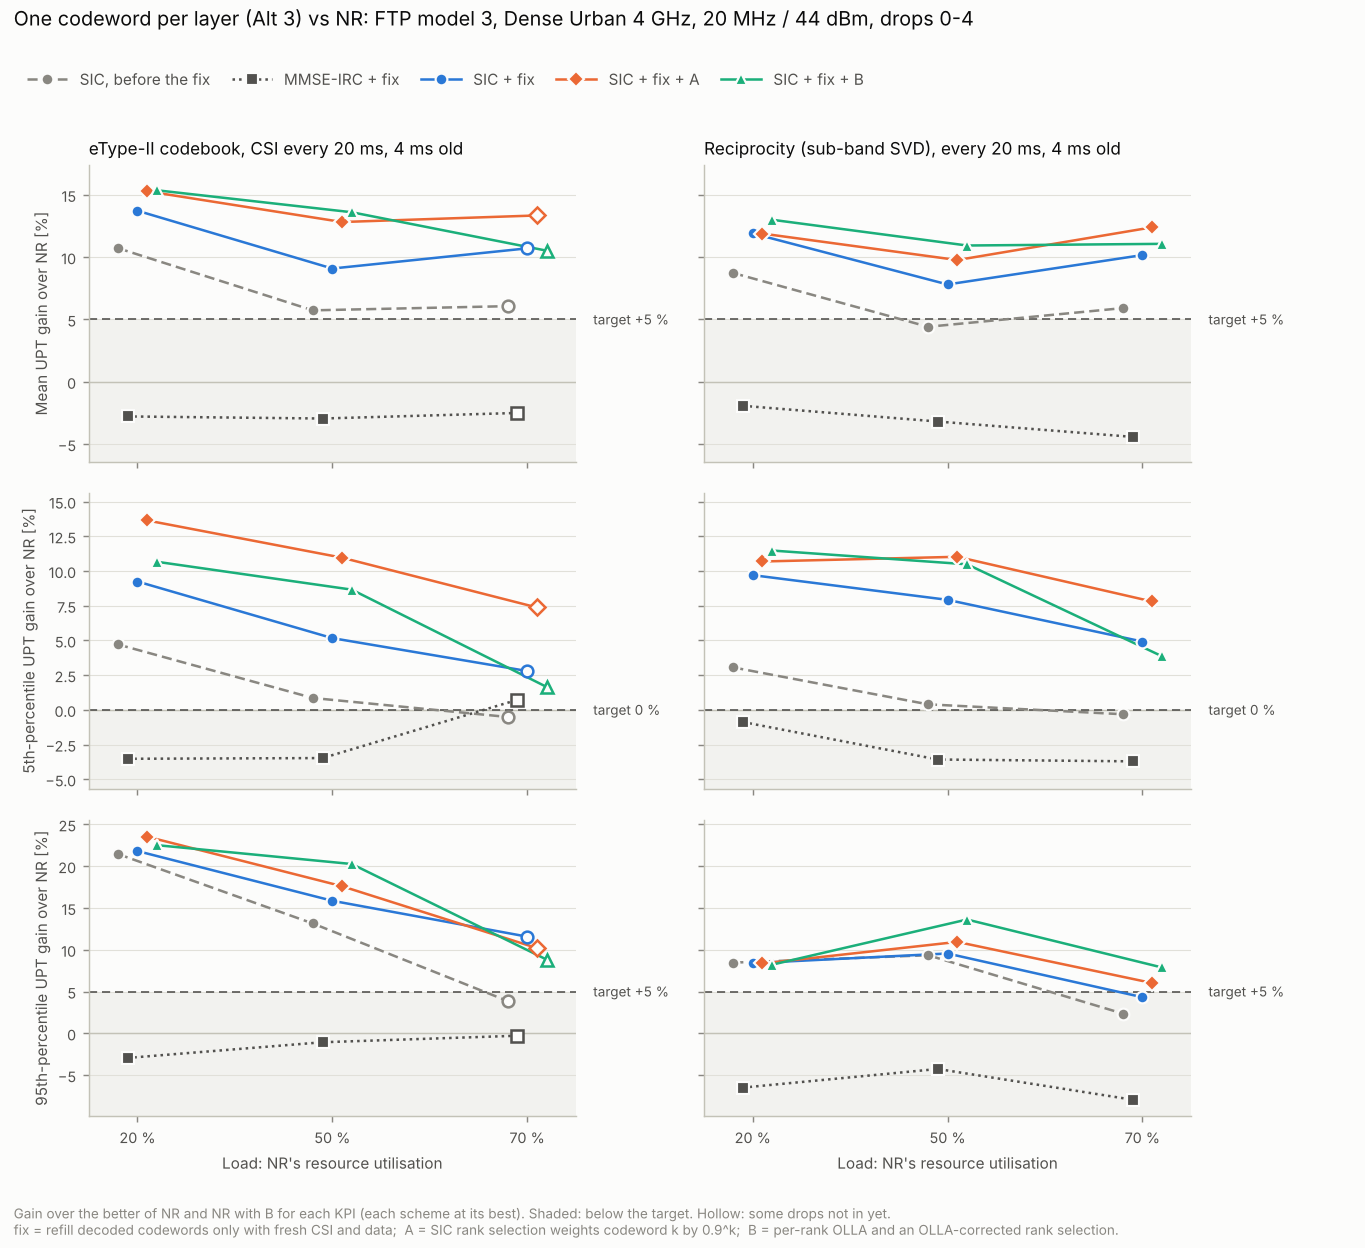
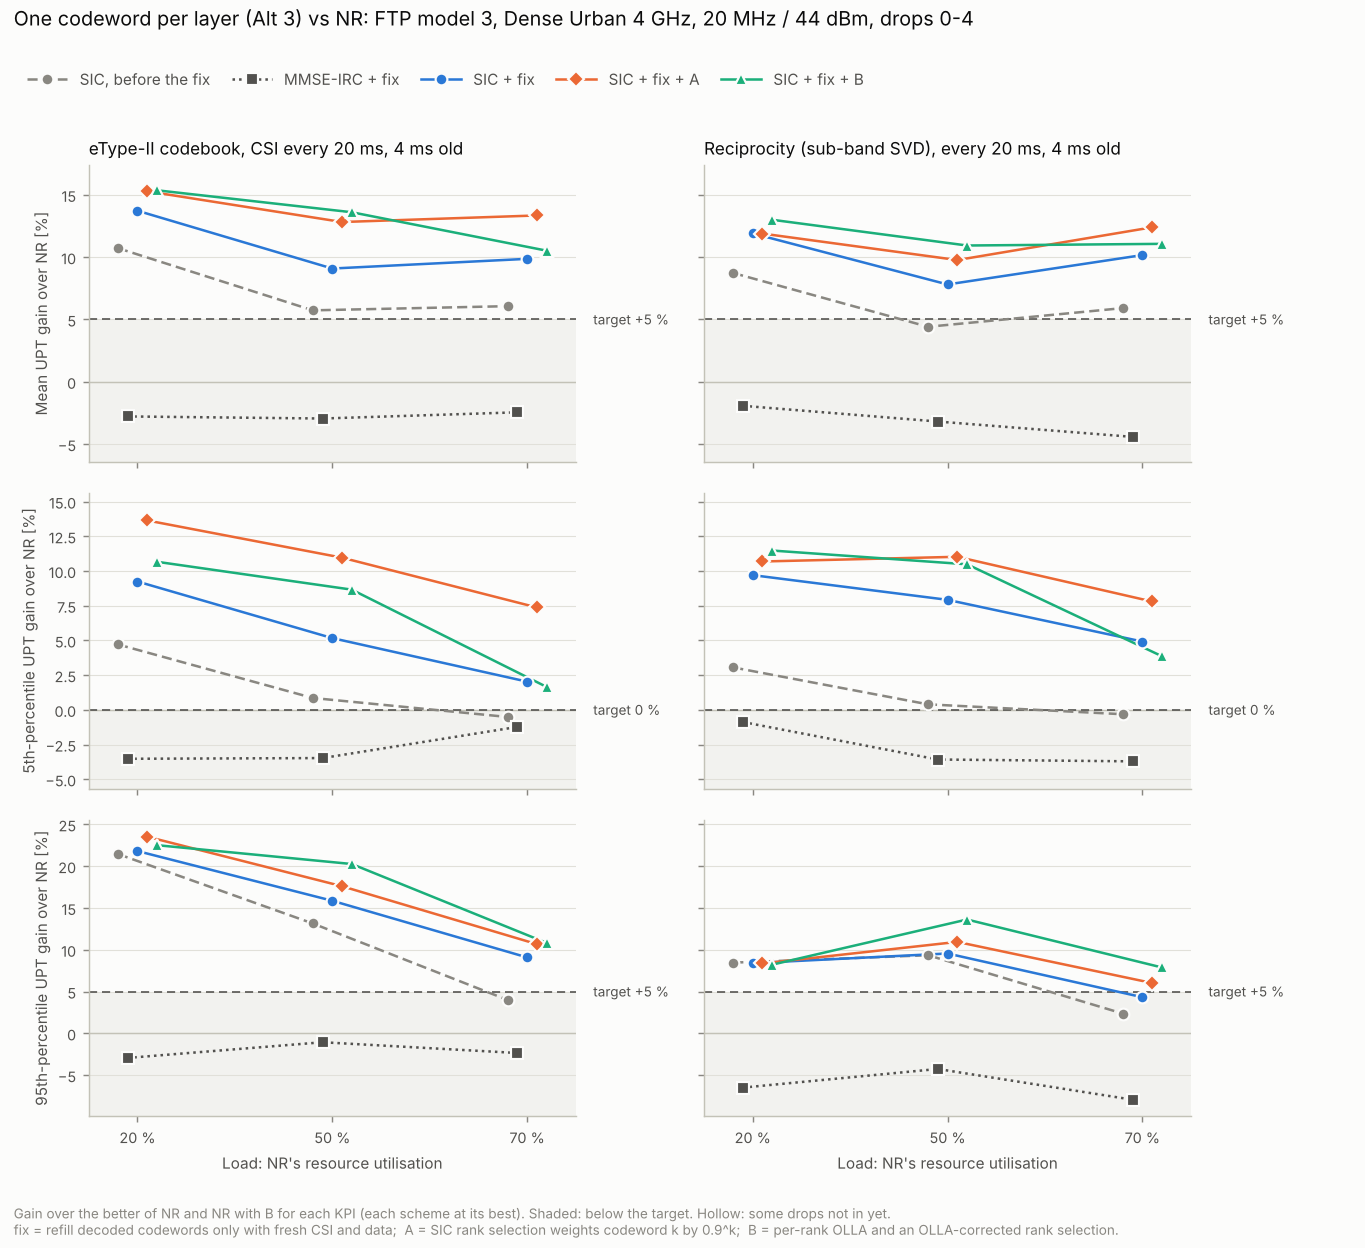
FTP screen complete: etype2 70 % group (run locally); final summary and figure
Claude-Session: https://claude.ai/code/session_01HdQCtKvh7hbiAHrYjGVeYA

diff --git a/results/cw2lm_ftp_screen_20mhz.md b/results/cw2lm_ftp_screen_20mhz.md
@@ -35,15 +35,15 @@ Drops 0-4. UPT gain of one codeword per layer over the better of NR and NR with 
 | Variant | Mean | p5 | p95 | Target | RU | Retx share | First BLER per CW [%] | Mean rank | Mean vs NR + B |
 |---|---|---|---|---|---|---|---|---|---|
 | NR | | | | | 70 % | 7.7 % | 10.9 | 2.22 | |
-| NR + B, vs NR | −3.1 | −9.0 | +0.3 | | 74 % | | 13.9 | 2.07 | |
-| MMSE-IRC, published * | −8.6 | −9.8 | −7.5 |  | 72 % | 15.4 % | 12 / 11 / 16 / 25 | 2.24 | −6.6 |
-| MMSE-IRC + fix * | −2.5 | +0.7 | −0.3 |  | 73 % | 14.1 % | 11 / 11 / 14 / 20 | 2.24 | +0.7 |
-| MMSE-IRC + fix + B * | −6.1 | −8.2 | −1.7 |  | 75 % | 16.9 % | 14 / 14 / 19 / 19 | 2.06 | −3.1 |
-| SIC, published * | +6.1 | −0.5 | +3.9 |  | 69 % | 12.0 % | 11 / 11 / 13 / 15 | 3.00 | +10.5 |
-| SIC + fix * | +10.7 | +2.8 | +11.6 | ✓ | 71 % | 11.7 % | 11 / 11 / 12 / 14 | 2.96 | +14.3 |
-| SIC + fix + A * | +13.3 | +7.4 | +10.2 | ✓ | 68 % | 11.0 % | 12 / 11 / 13 / 18 | 2.62 | +17.1 |
-| SIC + fix + B * | +10.5 | +1.7 | +8.8 | ✓ | 69 % | 13.9 % | 15 / 15 / 19 / 21 | 2.53 | +12.2 |
-| SIC + fix + A + B * | +10.1 | +2.2 | +7.0 | ✓ | 69 % | 13.6 % | 15 / 15 / 19 / 23 | 2.39 | +12.9 |
+| NR + B, vs NR | −3.2 | −8.5 | +1.4 | | 72 % | | 13.8 | 2.09 | |
+| MMSE-IRC, published | −8.6 | −9.8 | −7.0 |  | 72 % | 15.4 % | 12 / 11 / 16 / 25 | 2.24 | −5.6 |
+| MMSE-IRC + fix | −2.5 | −1.2 | −2.4 |  | 71 % | 13.6 % | 11 / 11 / 14 / 20 | 2.24 | +0.7 |
+| MMSE-IRC + fix + B | −5.8 | −9.4 | −1.7 |  | 72 % | 16.2 % | 14 / 14 / 19 / 19 | 2.07 | −2.8 |
+| SIC, published | +6.1 | −0.5 | +4.0 |  | 69 % | 12.0 % | 11 / 11 / 13 / 15 | 3.00 | +9.5 |
+| SIC + fix | +9.9 | +2.0 | +9.1 | ✓ | 69 % | 11.3 % | 11 / 11 / 12 / 15 | 2.99 | +13.5 |
+| SIC + fix + A | +13.3 | +7.4 | +10.7 | ✓ | 68 % | 11.0 % | 12 / 11 / 13 / 18 | 2.62 | +17.1 |
+| SIC + fix + B | +10.5 | +1.7 | +10.8 | ✓ | 69 % | 13.9 % | 15 / 15 / 19 / 21 | 2.53 | +14.1 |
+| SIC + fix + A + B | +10.1 | +2.2 | +8.2 | ✓ | 69 % | 13.6 % | 15 / 15 / 19 / 23 | 2.39 | +13.7 |
 
 ### svd_sb_20ms, 20 % RU
 
